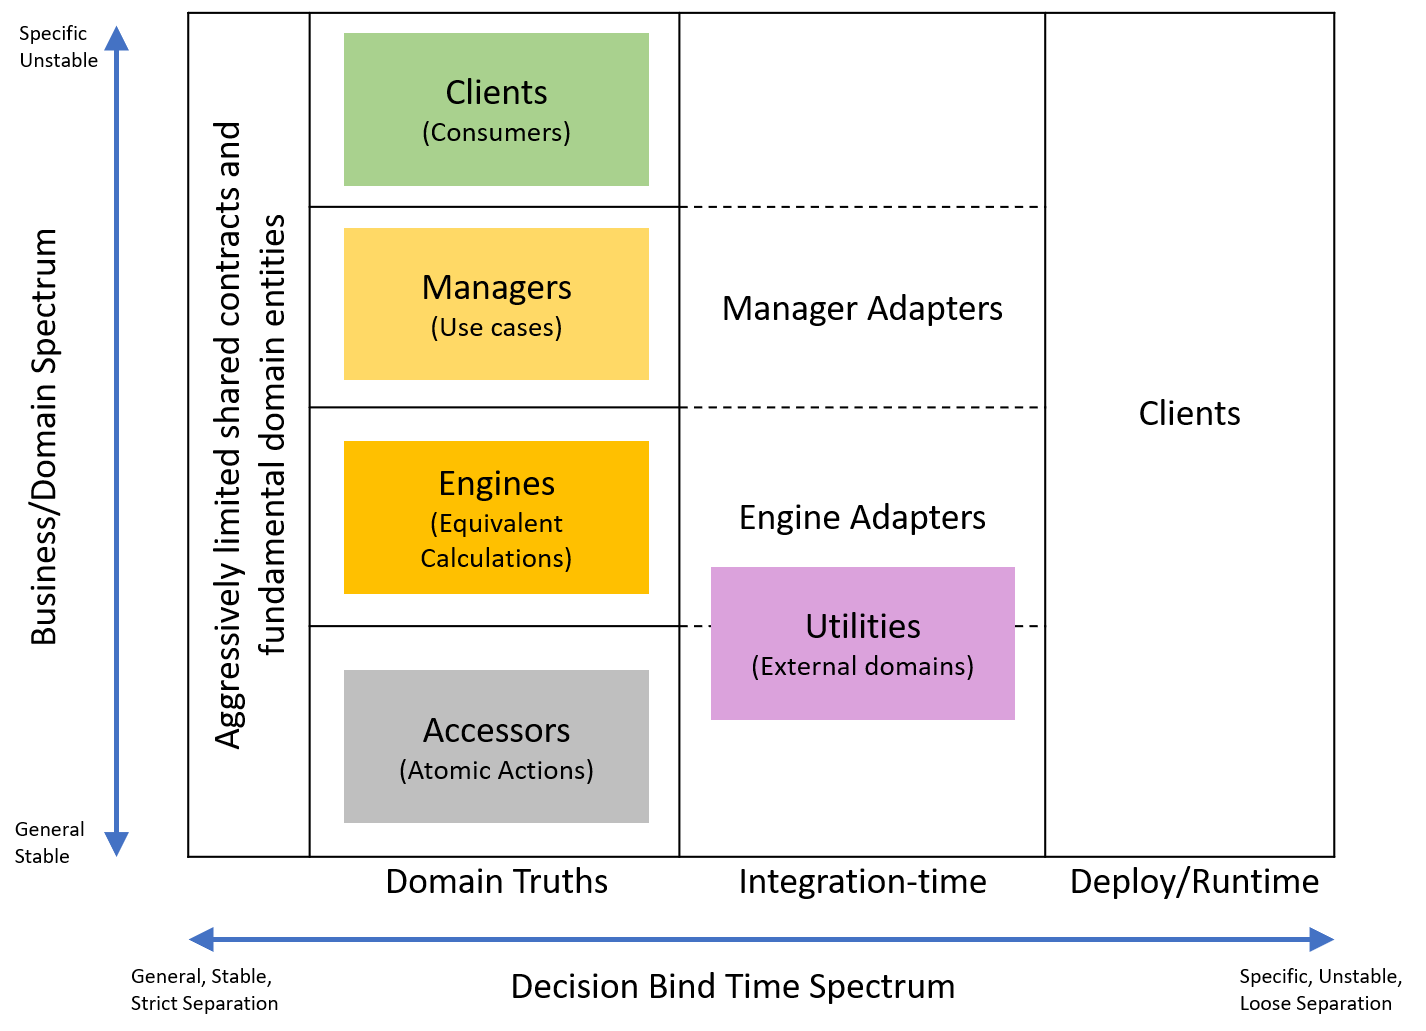
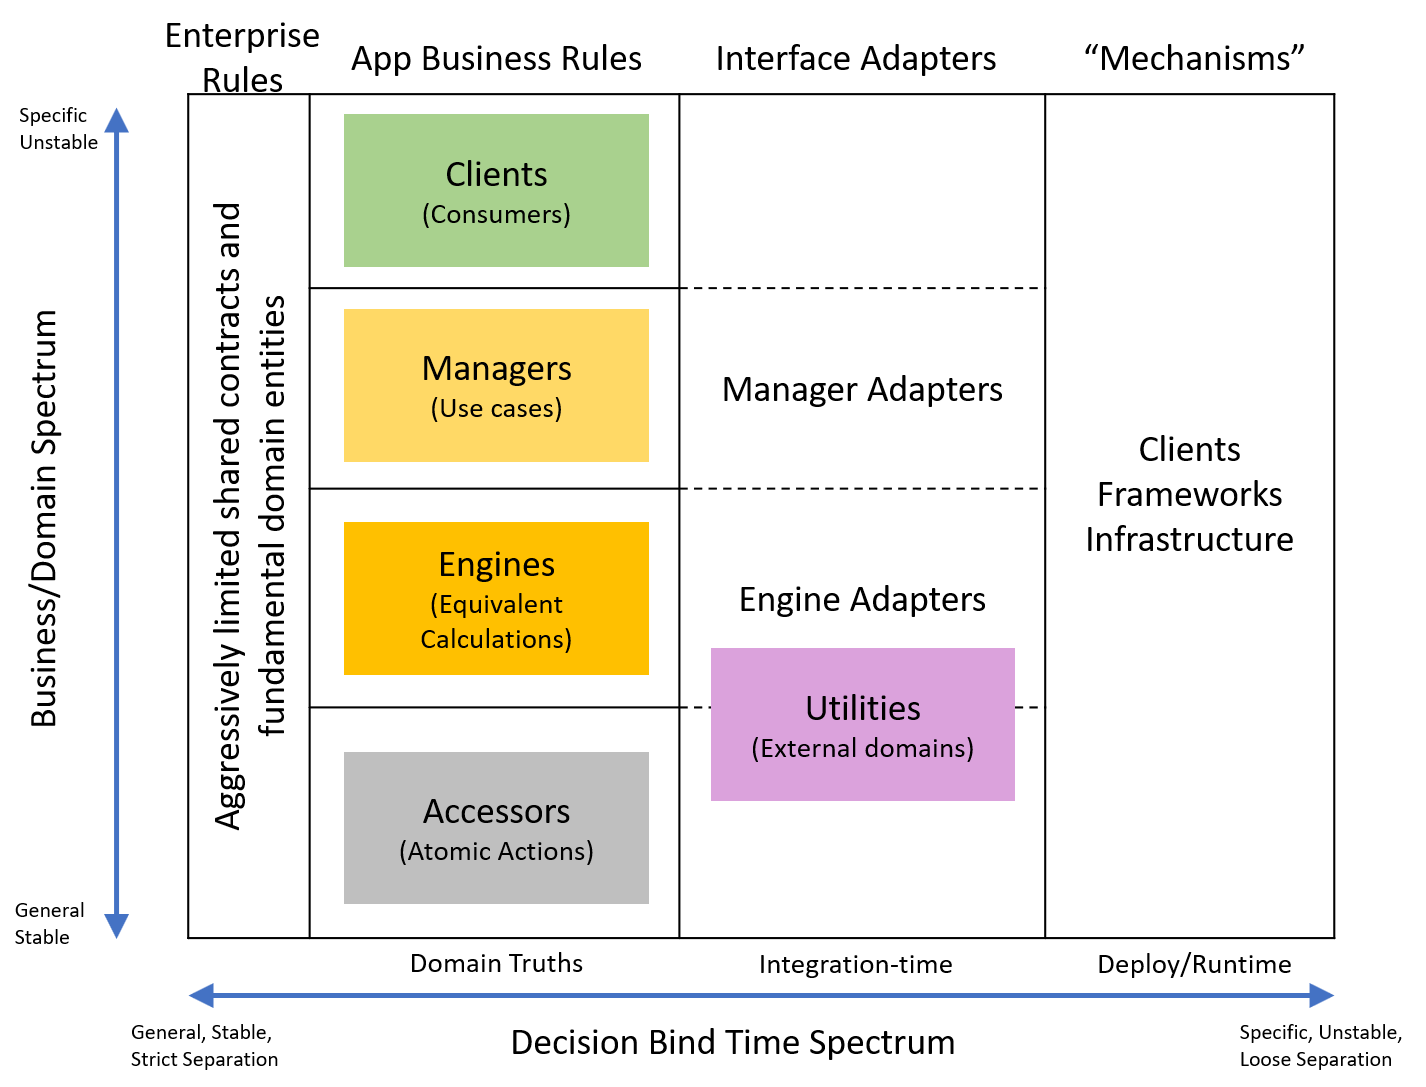
Start refactoring posts for the realization that I rediscovered clean arch

diff --git a/_drafts/2020-08-05-Notification-Design.md b/_drafts/2020-08-05-Notification-Design.md
@@ -3,11 +3,9 @@ layout: post
 tags: [Architecture, Patterns, Design thinking, SOLID Structure, Case Study]
 ---
 
-# SOLID Notification Refactor Case Study
+# Notification Refactor Case Study
 
 A clear and general design for integrating notifications (email, text, push, etc) has long eluded me. However, a recent refactor using the concepts of [Synthesizing Project Organization Methods](2020-07-10-Synthesizing-Structure.md) has settled my search. Here I'll explore my refactoring experience and why the conceptual shift is generically more stable. 
-
-*Note*: I now use SOLID Structure as the name for the code organization pattern described in [Synthesizing Project Organization Methods](2020-07-10-Synthesizing-Structure.md). 
 
 ## Current System
 
@@ -45,7 +43,9 @@ We could have the service implement some generic handler registration, but that 
 The notification system is trying to juggle the needs of too many consumers and has no stable solution.
 
 ## Solution 
-Now let's abandon the idea of a central generalized notification/event system. Instead let's use the SOLID Structure concepts. 
+Now let's abandon the idea of a central generalized notification/event system. Instead let's use Clean Architecture and the rules of thumb from my previous post.
+
+>**Note**: I ended up realizing that what I did in [Synthesizing Project Organization Methods](2020-07-10-Synthesizing-Structure.md) was cross IDesign with [Clean Architecture](https://blog.cleancoder.com/uncle-bob/2012/08/13/the-clean-architecture.html). This refactor mainly leans on Clean Architecture because it doesn't depend on the interaction of domain services.
 
 This means each service defines it's own dependency abstractions, exposes extensibility to callers generically, and uses thin adapters to bridge the gap (of generic outward interfaces to specific dependency abstractions).
 
@@ -77,6 +77,6 @@ Further, the dependency we've defined is much simpler and more generic. It bette
 
 ## Summary Notes
 
-Notice how emails started as part of the business flow and got pushed out, eventually resulting in a new and clear generalized service. The selfish service design of SOLID Structure makes Single Responsibility Principle (or Information Hiding) a more natural and low energy choice. This separates out cross-cutting concerns. The cross-cutting concerns can then be collected and addressed directly. This closes the gap between our own utility implementations and potential 3rd-party solutions. Many cases (e.g. user management, payments, feature flags, logging) already have robust 3rd-party solutions which this pattern can easily consume without mixing them into core services. You may still wrap some of these utility-like concerns for framework portability, but the wrapper hides much less of their power since we are wrapping them in line with their original purpose and defer business flow adaptation to the service adapter layer.
+Notice how emails started as part of the business flow and got pushed out, eventually resulting in a new and clear generalized service. The selfish service design rule makes Single Responsibility Principle (or Information Hiding) a more natural and low energy choice. This separates out cross-cutting concerns. The cross-cutting concerns can then be collected and addressed directly. This closes the gap between our own utility implementations and potential 3rd-party solutions. Many cases (e.g. user management, payments, feature flags, logging) already have robust 3rd-party solutions which this pattern can easily consume without mixing them into core services. You may still wrap some of these utility-like concerns for framework portability, but the wrapper hides much less of their power since we are wrapping them in line with their original purpose and defer business flow adaptation to the service adapter layer.
 
-In short, SOLID Structure helped me to discover a strong general notification system by focusing my design decisions to one service and making Information Hiding the lowest energy decision.
+In short, Clean Architecture and the new rules helped me to discover a strong general notification system by focusing my design decisions to one service and making Information Hiding the lowest energy decision.

diff --git a/_drafts/2020-08-06-Solid-Structure-Refined.md b/_drafts/2020-08-06-Solid-Structure-Refined.md
@@ -23,11 +23,19 @@ IDesign layers code by role in the business domain. Every layer and service repr
 
 **Clean Architecture**
 
-Clean Architecture layers based on relevance to the domain. The most stable business abstractions are the foundation, then uses cases, then adapters, and finally external systems. This ordering emphasizes callers owning their abstractions.
+Clean Architecture layers based on relevance to the domain. The most stable business abstractions are the foundation, then uses cases, then adapters, and finally external "mechanisms". This ordering emphasizes callers owning their abstractions so that the system moves to the convenience of the more fundamental business rules.
 
 > Aside: creating SOLID structure is actually what helped me better understand Clean Architecture and how it differed from IDesign. The names in the layers can be distracting, focus on the names for the colored layers (also see [Robert Martin's post](https://blog.cleancoder.com/uncle-bob/2012/08/13/the-clean-architecture.html))
 
 ![Clean Architecture diagram](../post-media/SolidStructure-Refined/CleanArchDiagram.png)
+
+*Enterprise Business Rules*: sadf
+
+*Application Business Rules*: adfa
+
+*Interface Adapters*: asdf
+
+*Frameworks and Drivers*: asdf
 
 
 **Solid Structure**
@@ -47,10 +55,13 @@ Layout
 
 ![Structure Table](../post-media/SolidStructure-Refined/SolidStructureTable.png)
 
-- *Shared Contracts and Entities*: These should only be the most fundamental and unchanging abstactions. For example, not every service needs it's own logging interface. 
-- *Domain Truths*: The classic IDesign layers that encode the core domain. Should not directly reference external domain like utilities. May contain some limited frameworks for defining the business flows. Should never change for differences in scale or deployment. Each service should be self-contained.
-- Adapters: Fulfills the domain dependency abstractions. May map to a lower-layer domain service or to a utility/external service. This is where decisions of scale like event systems, communication protocols, and remote calls are made. Also likely binds flexibility concerns like email or identity systems business people can manage.
-- Clients: Determines the final mix of adapters needed to deliver a running product. These are the assemblies that will be deployed to concrete infrastructure. Responsible for configuring concrete resources like databases, log stores, files stores, etc. 
+Here are the Clean Architecture layers, but with more specificity to mesh with the IDesign Layers and clarify decision-time categories.
+- *Enterprise Rules / Shared Contracts and Entities*: These should only be the most fundamental and unchanging abstactions. For example, not every service needs it's own logging interface. Should be abstractions that could be shared between all company applications. 
+
+TODO need to re-evaluate this layer because clean arch has no frameworks in the logic layer
+- *Application Business Rules / Domain Truths*: The classic IDesign layers that encode the core domain. Should not directly reference external domain like utilities. May contain some limited frameworks for defining the business flows. Should never change for differences in scale or deployment. Each service should be self-contained.
+- *Adapters*: Fulfills the domain dependency abstractions. May map to a lower-layer domain service or to a utility/external service. This is where decisions of scale like event systems, communication protocols, and remote calls are made. Also likely binds flexibility concerns like email or identity systems business people can manage.
+- *Clients, Frameworks, and drivers*: Determines the final mix of adapters needed to deliver a running product. These are the assemblies that will be deployed to concrete infrastructure. Responsible for configuring concrete resources like databases, log stores, files stores, etc. 
 
 ## Consequences
 - Guidelines for every piece of code
